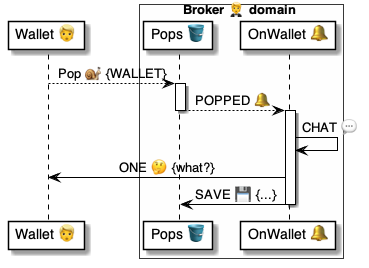
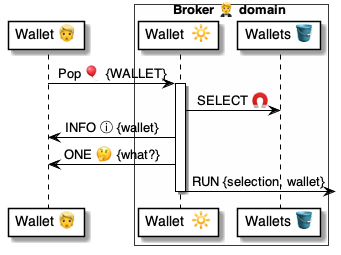
.

Changed region(s): [[0.0, 0.0, 0.9971, 0.9882]]

diff --git a/4 ⚙ Solution/20 🧑🦰 UI/Brokers 🤵/🤵🔆 Broker locators/PopWallet 🔆/Wallet/🤵 PopWallet 🔆 handler.md b/4 ⚙ Solution/20 🧑🦰 UI/Brokers 🤵/🤵🔆 Broker locators/PopWallet 🔆/Wallet/🤵 PopWallet 🔆 handler.md
@@ -1,0 +1,46 @@
+# 🤵 PopWallet 🔆 handler
+
+> Purpose
+* [Script 📃](<../../../../../35 💬 Chats/Scripts 📃/Script 📃.md>) that reacts to a Pop in a [Wallet 🧑🦰 app](<../../../../Wallets 🧑🦰/🧑🦰 Wallet app/🧑🦰 Wallet 🛠 app.md>).
+
+<br/>
+
+## Diagram
+
+![alt text](<🤵 PopWallet ⚙ uml.png>)
+
+<br/>
+
+## Script
+
+```yaml
+📃 OnPopWallet:
+
+# Assert the inputs
+- ASSERT:
+    $.Chat.Wallet: 
+
+# Get the Wallet
+- SELECT >> $wallet:
+    From: Broker.Wallets
+    Key: $.Chat.Wallet
+
+# Show the options
+- ONE:
+    Title: What do you need?
+    Options: 
+        - /Localize
+
+# Handle the selection
+- CASE >> $handler:
+    Localize: PopWalletLocalize
+
+# Handle the selection
+- RUN|$handler: $wallet
+```
+
+Uses||
+|-|-
+| [Commands ⌘](<../../../../../35 💬 Chats/Scripts 📃/Command ⌘.md>) | [`ASSERT`](<../../../../../37 Scripts 📃/📃 Commands ⌘/⌘ for holders 🧠/ASSERT 🚦/🚦 ASSERT ⌘ cmd.md>)  [`CASE`](<../../../../../37 Scripts 📃/📃 Commands ⌘/⌘ for control ▶/CASE ⏯/⏯ CASE ⌘ cmd.md>)  [`ONE`](<../../../../../37 Scripts 📃/📃 Prompts 🤔/🤔 Input ✏ prompts/ONE 1⃣/ONE 1⃣ prompt.md>)  [`RUN`](<../../../../../37 Scripts 📃/📃 Commands ⌘/⌘ for control ▶/RUN 🏃/🏃 RUN ⌘ cmd.md>) [`SELECT`](<../../../../../37 Scripts 📃/📃 Commands ⌘/⌘ for holders 🧠/SELECT 🅾/🅾 SELECT ⌘ cmd.md>)
+| [Datasets 🪣](<../../../../../30 🧩 Data/Datasets 🪣/🪣 Dataset.md>) | [`Broker.Wallets`](<../../../🤵🪣 Broker tables/Wallets 🧑🦰 table/🪣 Wallets/🤵 Broker.Wallets 🪣 table.md>)
+| [Holders 🧠](<../../../../../35 💬 Chats/Scripts 📃/Holder 🧠.md>) | [`$.Chat`](<../../../../../37 Scripts 📃/📃 Holders 🧠/System holders 🔩/$.Chat 💬/💬 $.Chat 🧠 holder.md>) 

diff --git a/4 ⚙ Solution/20 🧑🦰 UI/Brokers 🤵/🤵🪣 Broker tables/Wallets 🧑🦰 table/🪣🧱 20 Localize ⏩ flow/🤵 Broker.Wallets.Localize ⏩ flow.md b/4 ⚙ Solution/20 🧑🦰 UI/Brokers 🤵/🤵🪣 Broker tables/Wallets 🧑🦰 table/🪣🧱 20 Localize ⏩ flow/🤵 Broker.Wallets.Localize ⏩ flow.md
@@ -19,7 +19,7 @@ Step | Purpose |
 |-|-
 |[`Pop@Broker` 🐌 msg](<../../../🤵📨 Broker msgs/Wallets 🧑🦰 Pop 🧑🦰🐌🤵/🤵 Pop 🐌 msg.md>)| Message from [Wallet 🧑🦰 apps](<../../../../Wallets 🧑🦰/🧑🦰 Wallet app/🧑🦰 Wallet 🛠 app.md>) to for a Pop
 | [`Pop@Broker` 📃 handler](<../../../🤵📨 Broker msgs/Wallets 🧑🦰 Pop 🧑🦰🐌🤵/🤵 Pop 📃 handler.md>) | Inserts into the [`Broker.Pops` 🪣 table](<../../Pops 🎈 table/🪣 Pops/🤵 Broker.Pops 🪣 table.md>)
-|[`OnPopLocalize` 🔔 handler](<../../../🤵🔆 Broker locators/PopWallet 🔆/Wallet » Localize/🤵 PopLocalize 🔔 handler.md>)| Sets the language on [`Broker.Wallets`](<../🪣 Wallets/🤵 Broker.Wallets 🪣 table.md>)
+|[`OnPopLocalize` 🔔 handler](<../../../🤵🔆 Broker locators/PopWallet 🔆/Wallet » Localize/🤵 PopWalletLocalize 🔆 handler.md>)| Sets the language on [`Broker.Wallets`](<../🪣 Wallets/🤵 Broker.Wallets 🪣 table.md>)
 |[`OnWalletLocalized` 🔔 handler](<../🪣🧱 21 Localized 🔔/🤵 OnWalletLocalized 🔔 handler.md>) | Localizes the [`Broker.Wallets` 🪣 table](<../🪣 Wallets/🤵 Broker.Wallets 🪣 table.md>)
 |[`OnFrontendAltered` 🔔 handler](<../../Frontend 📱 table/🪣🧱 Altered 🔔 event/🤵 OnFrontendAltered 🔔 handler.md>)| Calls the [`Updated@Notifier` 🐌 msg](<../../../../Notifiers 📣/📣📨 Notifier msgs/Wallets 🧑🦰 Updated 🤵🐌📣/📣 Updated 🐌 msg.md>)
 |[`Frontend@Broker` 📨 msg](<../../../🤵📨 Broker msgs/Wallets 🧑🦰 Frontend 🧑🦰🚀🤵/🤵 Frontend 📃 handler.md>)| Call by a [Wallet 🧑🦰 app](<../../../../Wallets 🧑🦰/🧑🦰 Wallet app/🧑🦰 Wallet 🛠 app.md>) app to get the display

diff --git a/4 ⚙ Solution/20 🧑🦰 UI/Brokers 🤵/🤵🪣 Broker tables/Tokens 🎫 table/🪣🧱 20 Localize ⏩ flow/🤵 Broker.Tokens.Localize ⏩ flow.md b/4 ⚙ Solution/20 🧑🦰 UI/Brokers 🤵/🤵🪣 Broker tables/Tokens 🎫 table/🪣🧱 20 Localize ⏩ flow/🤵 Broker.Tokens.Localize ⏩ flow.md
@@ -13,7 +13,7 @@
 Step | Purpose |
 |-|-
 |[`Pop@Broker` 🐌 msg](<../../../🤵📨 Broker msgs/Wallets 🧑🦰 Pop 🧑🦰🐌🤵/🤵 Pop 🐌 msg.md>)| Message from [Wallet 🧑🦰 apps](<../../../../Wallets 🧑🦰/🧑🦰 Wallet app/🧑🦰 Wallet 🛠 app.md>) to for a Pop
-|[`OnPopLocalize` 🔔 handler](<../../../🤵🔆 Broker locators/PopWallet 🔆/Wallet » Localize/🤵 PopLocalize 🔔 handler.md>)| Localizes the [`Broker.Wallets` 🪣 table](<../../Wallets 🧑🦰 table/🪣 Wallets/🤵 Broker.Wallets 🪣 table.md>)
+|[`OnPopLocalize` 🔔 handler](<../../../🤵🔆 Broker locators/PopWallet 🔆/Wallet » Localize/🤵 PopWalletLocalize 🔆 handler.md>)| Localizes the [`Broker.Wallets` 🪣 table](<../../Wallets 🧑🦰 table/🪣 Wallets/🤵 Broker.Wallets 🪣 table.md>)
 |[`OnWalletLocalized` 🔔 handler](<../../Wallets 🧑🦰 table/🪣🧱 21 Localized 🔔/🤵 OnWalletLocalized 🔔 handler.md>) | Localizes all the Wallet's [Tokens 🎫](<../../../../../30 🧩 Data/Tokens 🎫/🎫 Token/🎫 Token.md>)
 |[`OnTokenLocalized` 📃 handler](<../🪣🧱 21 Localized 🔔 event/🤵 OnTokenLocalized 🔔 handler.md>) | Localizes a single item in [`Broker.Tokens`](<../🪣 Tokens/🤵 Broker.Tokens 🪣 table.md>)
 |[`OnTokenAltered` 📃 handler](<../🪣🧱 00 Altered 🔔 event/🤵 OnTokenAltered 🔔 handler.md>)| [Script 📃](<../../../../../35 💬 Chats/Scripts 📃/Script 📃.md>) that updates the Frontend table

diff --git a/4 ⚙ Solution/37 Scripts 📃/📃 Commands ⌘/⌘ for holders 🧠/SELECT 🅾/🅾 SELECT ⌘ cmd.md b/4 ⚙ Solution/37 Scripts 📃/📃 Commands ⌘/⌘ for holders 🧠/SELECT 🅾/🅾 SELECT ⌘ cmd.md
@@ -23,7 +23,7 @@
     SELECT:
         All|First|Last|Distinct|Exists: [fields]
         From: $list-1, $list-n
-        Where: {filters}
+        Where|Key: {filters}
         OrderBy: +a, -b
         Limit: 10
     ```
@@ -38,6 +38,7 @@
     | `From` | Uses [`.Cross`](<../../../📃 Functions 🐍/🐍 System 🔩 functions/Cross ⓕ.md>) to join [List 🧠 holders](<../../../📃 Holders 🧠/Input holders 📥/🧠 List holders.md>)
     | `Where` | Uses [`.Filter`](<../../../📃 Functions 🐍/🐍 System 🔩 functions/Filter ⓕ.md>) to filter [List 🧠](<../../../📃 Holders 🧠/Input holders 📥/🧠 List holders.md>) items 
     |  | And uses [`READ`](<../../⌘ for datasets 🪣/READ 🧲/🧲 READ ⌘ cmd.md>) to read [Itemized 🪣 datasets](<../../../../30 🧩 Data/Datasets 🪣/🪣🔣 Dataset types/Itemized 🛢 dataset.md>) by key
+    | `Key` | Uses [`READ`](<../../⌘ for datasets 🪣/READ 🧲/🧲 READ ⌘ cmd.md>) to read [Itemized 🪣 datasets](<../../../../30 🧩 Data/Datasets 🪣/🪣🔣 Dataset types/Itemized 🛢 dataset.md>) by key
     | `OrderBy`| Uses [`Set.Sort`](<../../../📃 Functions 🐍/🐍 System 🔩 functions/Sort ⓕ set.md>) to order the [List 🧠](<../../../📃 Holders 🧠/Input holders 📥/🧠 List holders.md>) items
     | `Limit` | Uses [`.First`](<../../../📃 Functions 🐍/🐍 System 🔩 functions/First ⓕ set.md>) to limit the items returned
 

diff --git a/4 ⚙ Solution/20 🧑🦰 UI/Brokers 🤵/🤵🔆 Broker locators/PopWallet 🔆/Wallet » Localize/🤵 PopWalletLocalize 🔆 handler.md b/4 ⚙ Solution/20 🧑🦰 UI/Brokers 🤵/🤵🔆 Broker locators/PopWallet 🔆/Wallet » Localize/🤵 PopWalletLocalize 🔆 handler.md
@@ -1,6 +1,4 @@
-# 🤵 OnPopLocalize 📃 handler
-
-> Part of the [`Broker.Pops` 🪣 table](<../../../🤵🪣 Broker tables/Pops 🎈 table/🪣 Pops/🤵 Broker.Pops 🪣 table.md>)
+# 🤵 PopWalletLocalize 📃 handler
 
 > Purpose
 * [Script 📃](<../../../../../35 💬 Chats/Scripts 📃/Script 📃.md>) that reacts to a Pop to change the language.
@@ -9,7 +7,7 @@
 
 ## Diagram
 
-![alt text](<🤵 PopLocalize ⚙ uml.png>)
+![alt text](<🤵 PopWalletLocalize ⚙ uml.png>)
 
 <br/>
 
